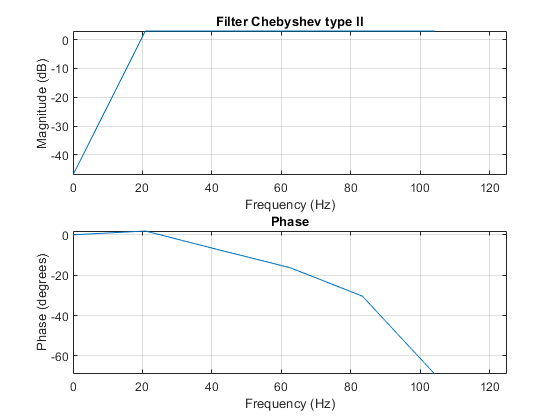
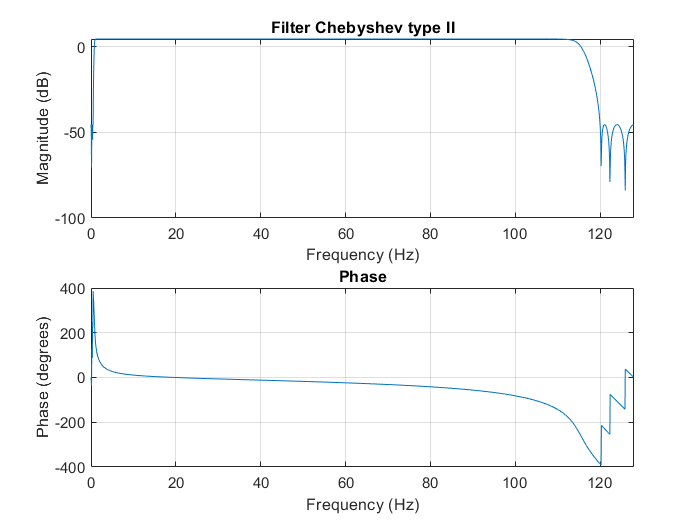
Update Chebyshev filter

diff --git a/q4_2.m b/q4_2.m
@@ -27,7 +27,8 @@ disp(g)
 
 % 4
 figure(1)
-freqz (sos, n, Fs)
+%freqz (sos, n, Fs)
+freqz (sos, 2048, Fs)
 title('Filter Chebyshev type II')
 
 % 5
